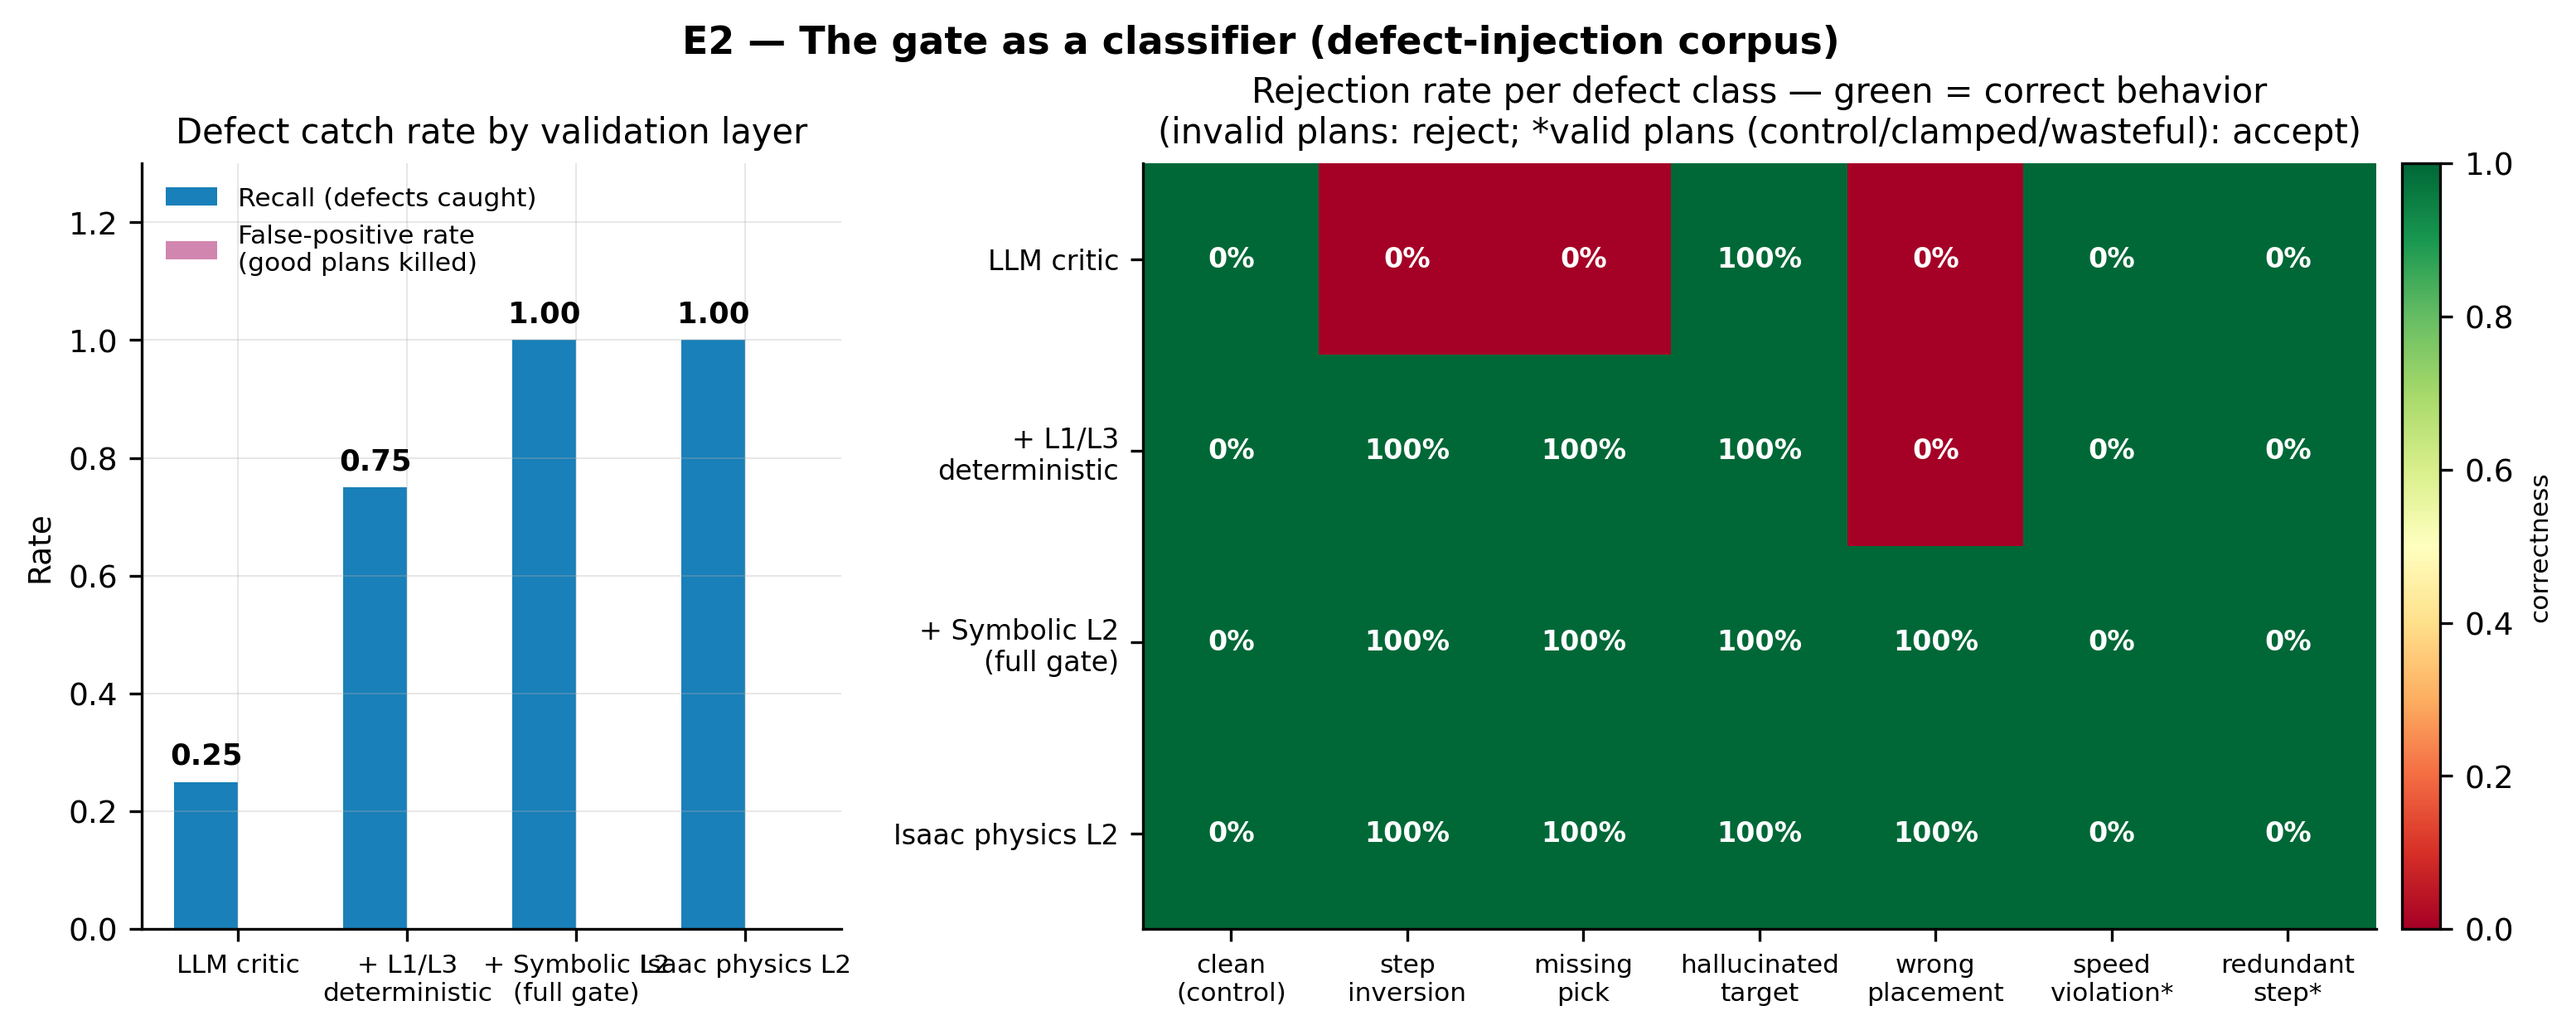
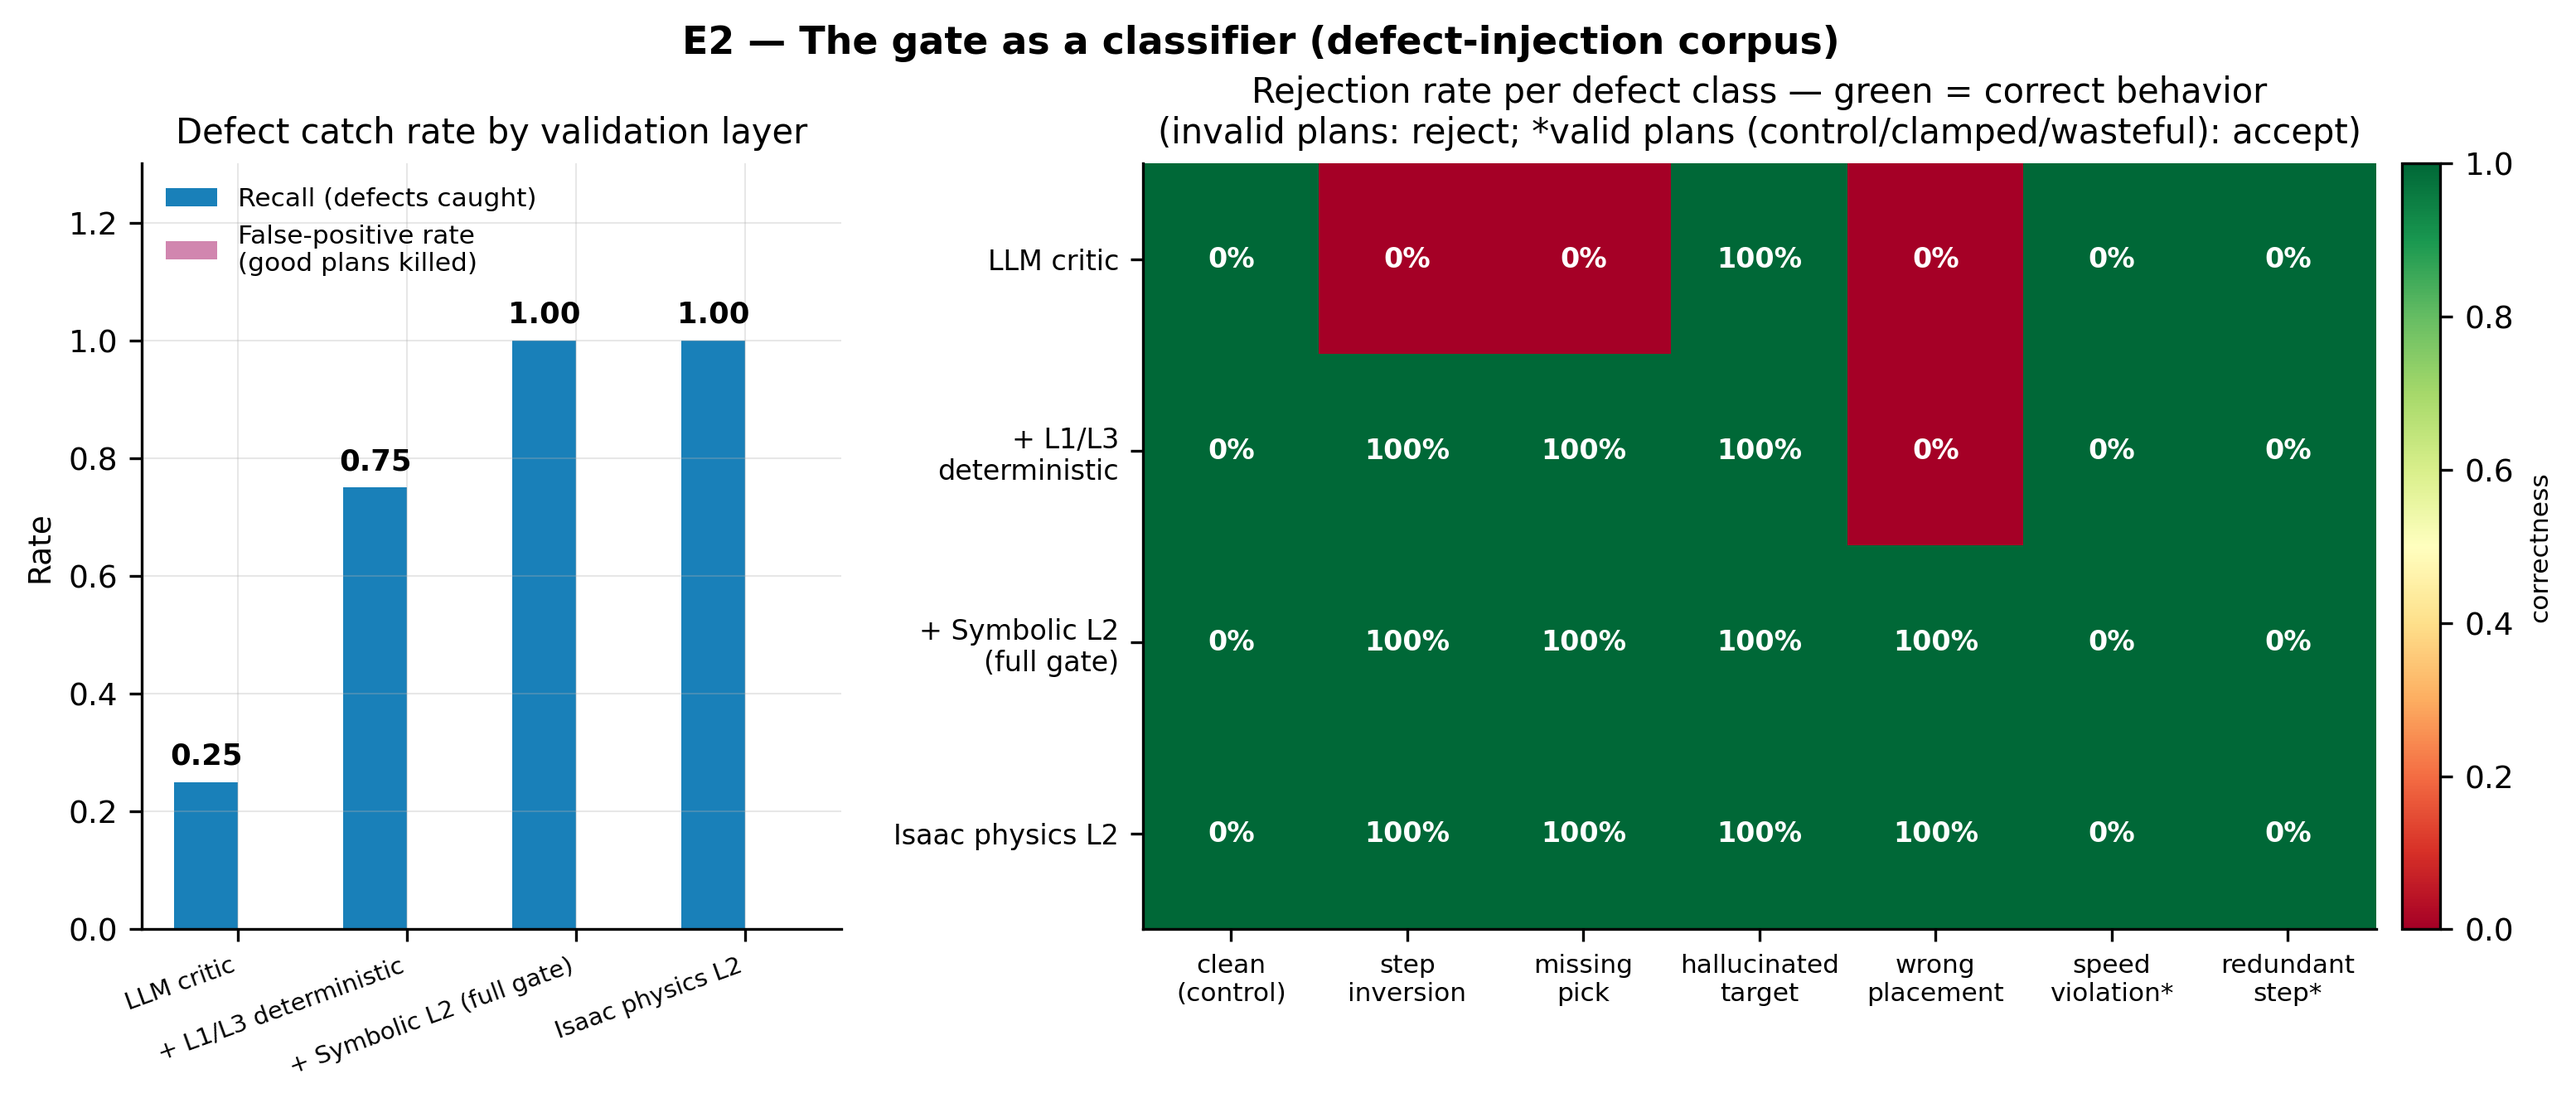
feat: matplotlib top-down trajectory animation + 3-run error bars
Top-down GIF rebuilt as publication-quality matplotlib frames (physgate/viz/
topdown_mpl.py): titled, legend, metric axes (m), obstacle/shelf footprints,
planned A* route vs walked trail, carry indicator — replacing the bare numpy
rendering. record_rollout.py now uses it; GIF regenerated from the logged
trajectory (368 KB, down from 2.7 MB).

Orchestration eval: 3 independent repeat runs (all mock 0.92 / Claude 1.00,
sd=0); orchestrator chart now shows n=3 error bars; E2 chart x-labels rotated
to remove overlap. 253 pure-logic tests green.

diff --git a/physgate/viz/topdown_mpl.py b/physgate/viz/topdown_mpl.py
@@ -1,0 +1,147 @@
+"""Publication-quality top-down trajectory animation (matplotlib).
+
+Renders each frame as a proper figure — titled, legended, metric axes in meters,
+obstacle/shelf footprints, the planned A* route, and the growing walked trail —
+then returns RGB arrays the encoder turns into a GIF/MP4. This replaces the bare
+numpy renderer (physgate.viz.topdown) for the README media; the numpy renderer
+is kept for fast unit tests.
+"""
+
+from __future__ import annotations
+
+import matplotlib
+
+matplotlib.use("Agg")
+import matplotlib.patches as mpatches
+import matplotlib.pyplot as plt
+import numpy as np
+
+from physgate.world.layout import BOX_SIZE, OBSTACLE_SIZE, SHELF_SIZE
+
+DPI = 150
+FIG_W, FIG_H = 7.2, 6.0
+X_RANGE = (-1.0, 4.2)
+Y_RANGE = (-2.2, 1.6)
+
+# colors consistent with the Isaac scene materials
+C_OBSTACLE = "#cc3333"
+C_SHELF = "#6666a0"
+C_BOX = "#b27f33"
+C_ROBOT = "#2ca05a"
+C_TRAIL = "#2e8b57"
+C_PATH = "#f0c020"
+
+
+def _rect(ax, center_xy, size_xy, color, label=None, alpha=0.85):
+    x = center_xy[0] - size_xy[0] / 2
+    y = center_xy[1] - size_xy[1] / 2
+    ax.add_patch(
+        mpatches.Rectangle(
+            (x, y), size_xy[0], size_xy[1], facecolor=color, edgecolor="black",
+            linewidth=0.8, alpha=alpha, label=label, zorder=2,
+        )
+    )
+
+
+def _inside_obstacle(layout, xy) -> bool:
+    ox, oy = layout["obstacle_P"][:2]
+    return abs(xy[0] - ox) <= OBSTACLE_SIZE[0] / 2 and abs(xy[1] - oy) <= OBSTACLE_SIZE[1] / 2
+
+
+def _fig_to_rgb(fig) -> np.ndarray:
+    fig.canvas.draw()
+    buf = np.frombuffer(fig.canvas.buffer_rgba(), dtype=np.uint8)
+    w, h = fig.canvas.get_width_height()
+    return buf.reshape(h, w, 4)[:, :, :3].copy()
+
+
+def render_topdown_frame(
+    layout: dict,
+    planned_path: list,
+    trail: list,
+    robot_xy: tuple,
+    box_xy: tuple,
+    carrying: bool,
+    t: float,
+) -> np.ndarray:
+    """Render one annotated top-down frame -> RGB uint8 array."""
+    fig, ax = plt.subplots(figsize=(FIG_W, FIG_H), dpi=DPI)
+    ax.set_xlim(*X_RANGE)
+    ax.set_ylim(*Y_RANGE)
+    ax.set_aspect("equal")
+    ax.set_xlabel("x (m)", fontsize=10)
+    ax.set_ylabel("y (m)", fontsize=10)
+    ax.grid(True, alpha=0.25, linewidth=0.5)
+    ax.set_axisbelow(True)
+
+    # static scene
+    _rect(ax, layout["shelf_A"][:2], SHELF_SIZE[:2], C_SHELF, label="shelf (goal)")
+    _rect(ax, layout["obstacle_P"][:2], OBSTACLE_SIZE[:2], C_OBSTACLE, label="pillar (obstacle)")
+
+    # planned A* route
+    if planned_path:
+        px, py = zip(*planned_path)
+        ax.plot(px, py, "--", color=C_PATH, linewidth=2.4, label="planned A* route", zorder=3)
+
+    # walked trail
+    if len(trail) >= 2:
+        tx, ty = zip(*trail)
+        ax.plot(tx, ty, "-", color=C_TRAIL, linewidth=2.8, label="walked trail", zorder=4)
+
+    # box
+    _rect(ax, box_xy, BOX_SIZE[:2], C_BOX, label="box")
+
+    # robot (ring when carrying)
+    if carrying:
+        ax.add_patch(plt.Circle(robot_xy, 0.26, facecolor="none", edgecolor="white",
+                                linewidth=2.0, zorder=5))
+    ax.add_patch(plt.Circle(robot_xy, 0.20, facecolor=C_ROBOT, edgecolor="black",
+                            linewidth=0.8, zorder=6, label="Go2 robot"))
+
+    phase = "carrying box → shelf" if carrying else "navigating / manipulating"
+    ax.set_title(
+        f"physgate — top-down trajectory (Isaac Sim rollout)\n"
+        f"t = {t:.1f} s   |   {phase}",
+        fontsize=11, fontweight="bold",
+    )
+    ax.legend(loc="upper right", fontsize=8, framealpha=0.9, ncols=1)
+    fig.tight_layout()
+    frame = _fig_to_rgb(fig)
+    plt.close(fig)
+    return frame
+
+
+def render_topdown_animation(
+    layout: dict,
+    planned_path: list,
+    samples: list[dict],
+    hold_last_frames: int = 16,
+    check_collisions: bool = False,
+) -> list[np.ndarray]:
+    """Render the full annotated animation from logged trajectory samples."""
+    if check_collisions:
+        for s in samples:
+            if _inside_obstacle(layout, s["robot_xy"]):
+                raise ValueError(
+                    f"trail point {s['robot_xy']} inside the obstacle footprint — "
+                    "rollout data is implausible"
+                )
+
+    frames: list[np.ndarray] = []
+    trail: list[tuple] = []
+    for s in samples:
+        trail.append(tuple(s["robot_xy"]))
+        frames.append(
+            render_topdown_frame(
+                layout=layout,
+                planned_path=planned_path,
+                trail=list(trail),
+                robot_xy=tuple(s["robot_xy"]),
+                box_xy=tuple(s["box_xy"]),
+                carrying=bool(s.get("carrying", False)),
+                t=float(s.get("t", 0.0)),
+            )
+        )
+    if frames and hold_last_frames > 0:
+        frames.extend([frames[-1].copy() for _ in range(hold_last_frames)])
+    return frames

diff --git a/tests/test_viz_topdown_mpl.py b/tests/test_viz_topdown_mpl.py
@@ -1,0 +1,85 @@
+"""Tests for the publication-quality matplotlib top-down trajectory animation.
+
+Replaces the bare numpy renderer's frames with proper figures: titled, with a
+legend, metric axes, the obstacle/shelf footprints, the planned A* route, and
+the growing walked trail.
+"""
+
+from __future__ import annotations
+
+import numpy as np
+import pytest
+
+matplotlib = pytest.importorskip("matplotlib")
+
+from physgate.world.layout import SCENE_LAYOUT  # noqa: E402
+
+
+def _samples(n=12):
+    return [
+        {
+            "t": round(i * 0.2, 2),
+            "robot_xy": [0.1 * i, 0.0],
+            "box_xy": [1.5, 0.5],
+            "carrying": i > 6,
+        }
+        for i in range(n)
+    ]
+
+
+def test_topdown_mpl_frame_is_high_resolution(tmp_path):
+    from PIL import Image
+
+    from physgate.viz.topdown_mpl import render_topdown_frame
+
+    frame = render_topdown_frame(
+        layout=SCENE_LAYOUT,
+        planned_path=[(0.0, 0.0), (1.2, 0.4)],
+        trail=[(0.0, 0.0), (0.5, 0.1)],
+        robot_xy=(0.5, 0.1),
+        box_xy=(1.5, 0.5),
+        carrying=False,
+        t=1.0,
+    )
+    assert frame.dtype == np.uint8 and frame.ndim == 3 and frame.shape[2] == 3
+    # 150 DPI at >=6.4 inches -> >=960 px
+    img = Image.fromarray(frame)
+    assert img.width >= 900
+
+
+def test_topdown_mpl_frames_have_consistent_shape():
+    from physgate.viz.topdown_mpl import render_topdown_animation
+
+    frames = render_topdown_animation(
+        layout=SCENE_LAYOUT,
+        planned_path=[(0.0, 0.0), (1.2, 0.4)],
+        samples=_samples(10),
+        hold_last_frames=4,
+    )
+    assert len(frames) == 14
+    assert all(f.shape == frames[0].shape for f in frames)
+
+
+def test_topdown_mpl_trail_grows_monotonically():
+    """Frame k must reflect k trail points (the trail accumulates)."""
+    from physgate.viz.topdown_mpl import render_topdown_animation
+
+    frames = render_topdown_animation(
+        layout=SCENE_LAYOUT, planned_path=[], samples=_samples(8), hold_last_frames=0
+    )
+    # later frames have more non-background ink than the first (trail grew)
+    def ink(frame):
+        return int((frame.sum(axis=2) < 720).sum())
+
+    assert ink(frames[-1]) > ink(frames[0])
+
+
+def test_topdown_mpl_rejects_trail_inside_obstacle():
+    from physgate.viz.topdown_mpl import render_topdown_animation
+
+    ox, oy, _ = SCENE_LAYOUT["obstacle_P"]
+    bad = [{"t": 0.0, "robot_xy": [ox, oy], "box_xy": [1.5, 0.5], "carrying": False}]
+    with pytest.raises(ValueError, match="obstacle"):
+        render_topdown_animation(
+            layout=SCENE_LAYOUT, planned_path=[], samples=bad, check_collisions=True
+        )

diff --git a/benchmarks/rebuild/record_rollout.py b/benchmarks/rebuild/record_rollout.py
@@ -70,7 +70,7 @@ def main() -> int:
     from physgate.gate.trajectory import compile_mission
     from physgate.planner.planner import MockPlanner
     from physgate.viz.encode import encode_frames_to_gif, encode_frames_to_mp4
-    from physgate.viz.topdown import render_rollout_animation
+    from physgate.viz.topdown_mpl import render_topdown_animation
     from physgate.world.fetch_scene import FetchSimWorld
     from physgate.world.layout import SCENE_LAYOUT, SHELF_TOP_Z
     from physgate.world.locomotion import find_exported_policy
@@ -303,15 +303,15 @@ def main() -> int:
     gif_frames = [f[::2, ::2] for f in camera_frames[::3]]
     encode_frames_to_gif(gif_frames, MEDIA_DIR / "isaac_rollout.gif", fps=8)
 
-    # top-down trajectory animation (with collision checking on)
-    topdown_frames = render_rollout_animation(
+    # top-down trajectory animation (publication-quality matplotlib frames)
+    topdown_frames = render_topdown_animation(
         layout=SCENE_LAYOUT,
         planned_path=planned_path,
-        samples=samples,
+        samples=samples[::2],  # 12.5 fps from 25 fps samples
         hold_last_frames=18,
         check_collisions=True,
     )
-    encode_frames_to_gif(topdown_frames, MEDIA_DIR / "topdown_trajectory.gif", fps=12)
+    encode_frames_to_gif(topdown_frames, MEDIA_DIR / "topdown_trajectory.gif", fps=10)
 
     # raw trajectory log (the evidence the checks ran against)
     log = {

diff --git a/physgate/viz/charts.py b/physgate/viz/charts.py
@@ -472,7 +472,10 @@ def gate_classifier_chart(data: dict, output: str | Path) -> Path:
         )
     ax_recall.set_xticks(x)
     ax_recall.set_xticklabels(
-        [LAYER_LABELS.get(layer, layer) for layer in layers], fontsize=7.5
+        [LAYER_LABELS.get(layer, layer).replace("\n", " ") for layer in layers],
+        fontsize=7,
+        rotation=20,
+        ha="right",
     )
     ax_recall.set_ylabel("Rate")
     ax_recall.set_ylim(0, 1.3)

diff --git a/README.md b/README.md
@@ -213,7 +213,7 @@ regression test; the headline evidence is E1/E2 above.
 | Invalid-plan catch rate | 1.00 | 1.00 |
 | **Orchestrator score** | 0.92 | 1.00 |
 
-Error bars: mean ± sd over 2 independent runs (fresh LLM plan generations each run).
+Error bars: mean ± sd over 3 independent runs (fresh LLM plan generations each run).
 
 ### GPU parallel-validation scaling (RTX PRO 6000 Blackwell, 300 W)
 
